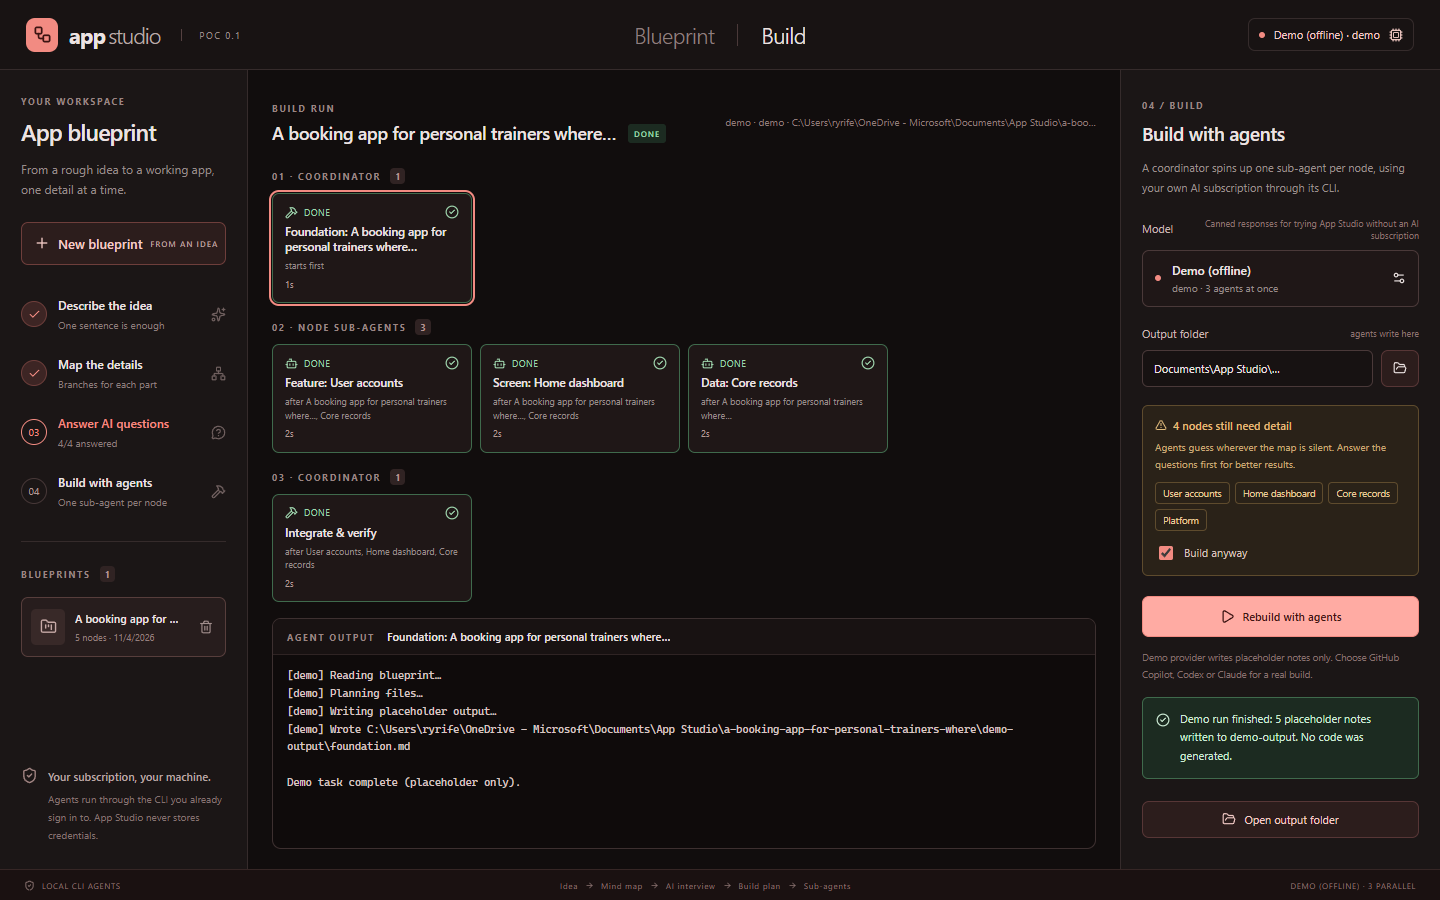
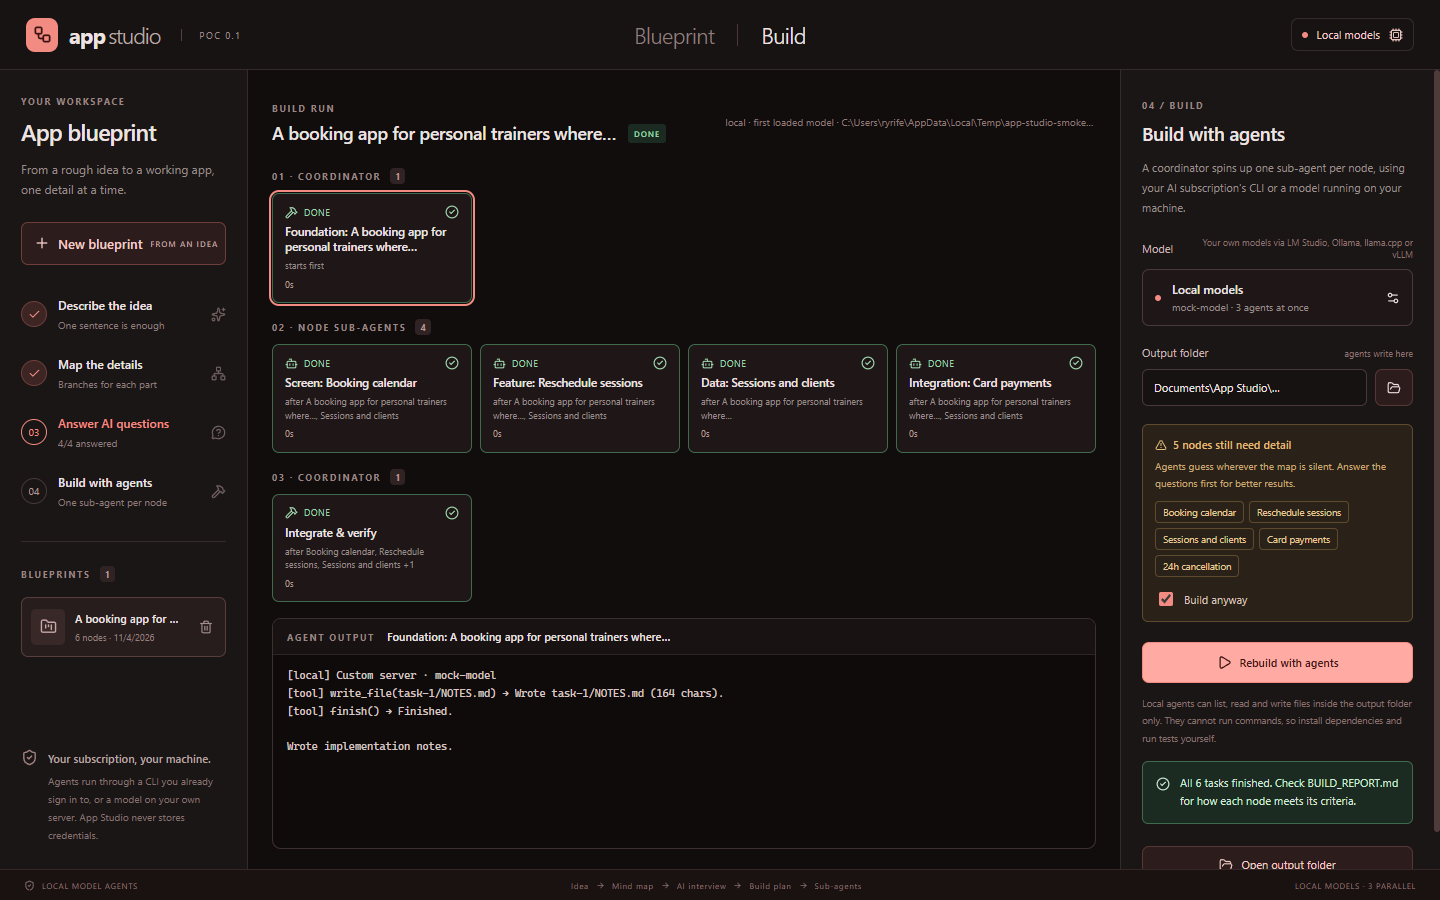
Finish local models provider, tests, smoke and docs
- Mock OpenAI-compatible server for tests and smoke; end-to-end local build, file-block fallback, safePath, parseFileBlocks, stripThinking and settings migration tests
- parseSettings keeps valid fields and fills gaps instead of resetting everything
- Smoke runs keep build output inside the temp data dir instead of Documents
- Provider-aware labels for local models; README; AGENTS.md and ux agent updated from Demo to Local models

diff --git a/tests/main.test.ts b/tests/main.test.ts
@@ -1,11 +1,13 @@
 import { test } from 'node:test'
 import assert from 'node:assert/strict'
-import { mkdtemp, readdir, rm } from 'node:fs/promises'
+import { mkdtemp, readdir, readFile, rm } from 'node:fs/promises'
 import { tmpdir } from 'node:os'
 import { join } from 'node:path'
 import { assertSafeArgs, runCommand } from '../src/main/process'
 import { providerDefs } from '../src/main/providers'
-import { Studio } from '../src/main/studio'
+import { localAgent, localAsk, parseFileBlocks, safePath, stripThinking } from '../src/main/local'
+import { parseSettings, Studio } from '../src/main/studio'
+import { startMockServer } from './fixtures/mock-openai.mjs'
 
 test('provider args only contain safe characters', () => {
   for (const def of Object.values(providerDefs)) {
@@ -13,6 +15,7 @@ test('provider args only contain safe characters', () => {
     assertSafeArgs(def.agentArgs('gpt-5.3-codex'))
     assert.ok(!def.askArgs('m').includes('--allow-all-tools'), `${def.id} ask mode must not grant tools`)
   }
+  assert.deepEqual(providerDefs.local.agentArgs('m'), [], 'local models are called over HTTP, not a CLI')
   assert.throws(() => assertSafeArgs(['model & calc']), /unsafe/)
   assert.throws(() => assertSafeArgs(['"x"']), /unsafe/)
 })
@@ -32,11 +35,14 @@ test('runCommand honours cancellation', async () => {
   await assert.rejects(pending, /Cancelled/)
 })
 
-test('demo provider runs a full interview and multi-agent build', async () => {
+test('local provider runs a full interview and multi-agent build', async () => {
   const dir = await mkdtemp(join(tmpdir(), 'app-studio-'))
+  const mock = await startMockServer({ thinking: true })
   try {
     const studio = new Studio(join(dir, 'data'), join(dir, 'docs'))
     await studio.load()
+    await studio.saveSettings({ ...studio.snapshot().settings, provider: 'local', localEndpoint: mock.url })
+    assert.match(await studio.testProvider(), /Local models/)
     const blueprint = await studio.createBlueprint('A booking app for personal trainers')
     const questions = await studio.interview(blueprint, blueprint.nodes[0].id)
     assert.ok(questions.questions.length >= 3)
@@ -50,9 +56,60 @@ test('demo provider runs a full interview and multi-agent build', async () => {
     assert.equal(finished.status, 'done', finished.tasks.map(task => `${task.id}:${task.status}:${task.error ?? ''}`).join('\n'))
     const buildable = branches.filter(item => item.kind !== 'rule' && item.kind !== 'constraint').length
     assert.equal(finished.tasks.length, buildable + 2)
-    const files = await readdir(join(run.outputDir, 'demo-output'))
-    assert.equal(files.length, finished.tasks.length)
+    const folders = (await readdir(run.outputDir)).filter(name => name.startsWith('task-'))
+    assert.equal(folders.length, finished.tasks.length)
+    assert.ok(mock.requests.every(body => body.model === 'mock-model'), 'uses the first non-embedding model')
     const saved = studio.snapshot().blueprints[0]
     assert.equal(saved.nodes.find(node => node.parentId === null)!.status, 'built')
+  } finally { await mock.close(); await rm(dir, { recursive: true, force: true }) }
+})
+
+test('local agent falls back to file blocks when the server rejects tools', async () => {
+  const dir = await mkdtemp(join(tmpdir(), 'app-studio-'))
+  const mock = await startMockServer({ rejectTools: true })
+  try {
+    const settings = parseSettings({ provider: 'local', localEndpoint: mock.url })
+    const lines: string[] = []
+    await localAgent(settings, 'Build it', dir, 20_000, undefined, chunk => lines.push(chunk))
+    assert.match(lines.join(''), /file-block mode/)
+    assert.equal(await readFile(join(dir, 'block-1', 'index.ts'), 'utf8'), 'export const ok = true\n')
+  } finally { await mock.close(); await rm(dir, { recursive: true, force: true }) }
+})
+
+test('local provider reports a missing server clearly', async () => {
+  const settings = parseSettings({ provider: 'local', localEndpoint: 'http://127.0.0.1:9/v1' })
+  await assert.rejects(localAsk(settings, 'hi', 5_000), /No OpenAI-compatible server answered at http:\/\/127\.0\.0\.1:9\/v1/)
+})
+
+test('safePath keeps agent writes inside the project', async () => {
+  const dir = await mkdtemp(join(tmpdir(), 'app-studio-'))
+  try {
+    for (const bad of ['../x', '..\\x', 'C:\\x', '/etc/passwd', '.git/config', 'src/../../x', '.app-studio/state.json', '']) {
+      await assert.rejects(safePath(dir, bad), Error, bad)
+    }
+    assert.equal((await safePath(dir, 'src/a.ts')).rel, 'src/a.ts')
+    assert.equal((await safePath(dir, 'src\\b.ts')).rel, 'src/b.ts')
+    assert.equal((await safePath(dir, '.')).rel, '.')
   } finally { await rm(dir, { recursive: true, force: true }) }
+})
+
+test('parseFileBlocks and stripThinking handle typical local model output', () => {
+  const files = parseFileBlocks('Intro\n### FILE: src/a.ts\n```ts\nconst a = 1\n```\n\n## FILE: `README.md`\n```\n# Hi\n```')
+  assert.deepEqual(files, [{ path: 'src/a.ts', content: 'const a = 1\n' }, { path: 'README.md', content: '# Hi\n' }])
+  assert.equal(stripThinking('<think>{ "x": 1 }</think>{"ok":true}'), '{"ok":true}')
+  assert.equal(stripThinking('stray reasoning</think> READY'), 'READY')
+})
+
+test('saved settings migrate from the retired demo provider', () => {
+  const migrated = parseSettings({ provider: 'demo', models: { copilot: ['auto'], codex: [], claude: [], demo: [] }, selectedModel: { copilot: 'auto', codex: '', claude: '', demo: '' }, maxParallelAgents: 2, binaryPaths: { copilot: '', codex: '', claude: '', demo: '' } })
+  assert.equal(migrated.provider, 'local')
+  assert.equal(migrated.maxParallelAgents, 2)
+  assert.deepEqual(migrated.models.local, [])
+  assert.equal(migrated.selectedModel.copilot, 'auto')
+  assert.equal(migrated.localEndpoint, '')
+  const kept = parseSettings({ provider: 'copilot', localEndpoint: 'file:///etc', maxParallelAgents: 99 })
+  assert.equal(kept.provider, 'copilot', 'one bad field does not reset the rest')
+  assert.equal(kept.localEndpoint, '')
+  assert.equal(kept.maxParallelAgents, 3)
+  assert.equal(parseSettings(null).provider, 'local')
 })

diff --git a/src/main/studio.ts b/src/main/studio.ts
@@ -17,12 +17,19 @@ export const defaultSettings: ProviderSettings = {
   localEndpoint: ''
 }
 
-/** Reads saved settings, migrating the retired "demo" provider to local models. */
+/** Reads saved settings field by field, keeping valid values, filling gaps from defaults and migrating the retired "demo" provider. */
 export function parseSettings(raw: unknown): ProviderSettings {
-  const value = { ...defaultSettings, ...(raw && typeof raw === 'object' ? raw : {}) } as Record<string, unknown>
-  if (value.provider === 'demo') value.provider = 'local'
-  const parsed = providerSettingsSchema.safeParse(value)
-  return parsed.success ? parsed.data : defaultSettings
+  const input: Record<string, unknown> = raw && typeof raw === 'object' ? { ...raw } : {}
+  if (input.provider === 'demo') input.provider = 'local'
+  const value: Record<string, unknown> = { ...defaultSettings }
+  for (const key of Object.keys(defaultSettings) as (keyof ProviderSettings)[]) {
+    const fallback = defaultSettings[key]
+    const incoming = input[key]
+    if (incoming === undefined) continue
+    const merged = typeof fallback === 'object' && incoming && typeof incoming === 'object' && !Array.isArray(incoming) ? { ...fallback, ...incoming } : incoming
+    if (providerSettingsSchema.safeParse({ ...value, [key]: merged }).success) value[key] = merged
+  }
+  return providerSettingsSchema.parse(value)
 }
 
 const askTimeout = 4 * 60_000

diff --git a/src/renderer/App.tsx b/src/renderer/App.tsx
@@ -209,7 +209,7 @@ export function App() {
           </div>)}
           {!snapshot?.blueprints.length && <div className="empty-assets"><Network size={26} /><p>No blueprints yet.</p><small>Describe an idea to grow your first map.</small></div>}
         </div>
-        <div className="local-note"><ShieldCheck size={17} /><div><strong>Your subscription, your machine.</strong><p>Agents run through the CLI you already sign in to. App Studio never stores credentials.</p></div></div>
+        <div className="local-note"><ShieldCheck size={17} /><div><strong>Your subscription, your machine.</strong><p>Agents run through a CLI you already sign in to, or a model on your own server. App Studio never stores credentials.</p></div></div>
       </aside>
 
       {tab === 'map' ? <>
@@ -260,7 +260,7 @@ export function App() {
     </main>
 
     <footer>
-      <span><ShieldCheck size={11} />LOCAL CLI AGENTS</span>
+      <span><ShieldCheck size={11} />{settings?.provider === 'local' ? 'LOCAL MODEL AGENTS' : 'LOCAL CLI AGENTS'}</span>
       <span>Idea <ArrowRight size={9} /> Mind map <ArrowRight size={9} /> AI interview <ArrowRight size={9} /> Build plan <ArrowRight size={9} /> Sub-agents</span>
       <span>{provider ? provider.label.toUpperCase() : 'NO MODEL'}{settings ? ` · ${settings.maxParallelAgents} PARALLEL` : ''}</span>
     </footer>

diff --git a/src/renderer/BuildView.tsx b/src/renderer/BuildView.tsx
@@ -32,7 +32,7 @@ export function BuildCenter({ blueprint, run }: { blueprint?: Blueprint; run?: B
   return <section className="center-panel">
     <div className="scene-heading">
       <div><span className="section-kicker">{run ? 'BUILD RUN' : '03 / BUILD PLAN'}</span><h2>{blueprint?.name ?? 'No blueprint open'}{run && <span className={`file-tag run-${run.status}`}>{run.status.toUpperCase()}</span>}</h2></div>
-      {run && <small className="run-meta">{run.provider} · {run.model || 'default model'} · {run.outputDir}</small>}
+      {run && <small className="run-meta">{run.provider} · {run.model || (run.provider === 'local' ? 'first loaded model' : 'CLI default model')} · {run.outputDir}</small>}
     </div>
     {!blueprint ? <div className="viewport"><div className="empty-viewport"><h2>Nothing to build yet.</h2><p>Create a blueprint first.</p></div></div> : <>
       {!run && <p className="plan-note">This is the plan agents will follow. The coordinator lays the foundation, data agents go first, features and screens fan out in parallel, then the coordinator integrates and verifies. Rules and constraints are passed to agents as context.</p>}

diff --git a/src/main/index.ts b/src/main/index.ts
@@ -21,7 +21,9 @@ app.on('second-instance', () => {
 const blueprintId = z.string().regex(/^[a-zA-Z0-9_-]{1,64}$/)
 
 if (ownsWorkspace) app.whenReady().then(async () => {
-  studio = new Studio(app.getPath('userData'), app.getPath('documents'))
+  const dataDir = app.getPath('userData')
+  // An overridden data dir (tests, smoke runs) also keeps default build output out of the real Documents folder.
+  studio = new Studio(dataDir, process.env.APP_STUDIO_DATA_DIR ? join(dataDir, 'Documents') : app.getPath('documents'))
   await studio.load()
   window = new BrowserWindow({
     title: 'App Studio', width: 1440, height: 940, minWidth: 1100, minHeight: 740,

diff --git a/AGENTS.md b/AGENTS.md
@@ -4,15 +4,15 @@
 
 App Studio is a mind-map driven AI app builder. A user describes an app idea, shapes it into a mind map where every node is one detail of the application (a feature, screen, data model, integration, rule or constraint), answers AI-generated questions for each node, and then lets a coordinator agent run one sub-agent per buildable node to generate the app.
 
-The current product is a local Electron proof of concept. AI work runs through the CLI of a subscription the user already has — GitHub Copilot CLI, OpenAI Codex CLI or Claude Code — with the user choosing the model ID. A built-in Demo provider returns canned responses so the full flow can be exercised offline. Treat broader capabilities (verification loops, re-planning, deployment, merge conflict resolution between agents) as goals, not shipped features.
+The current product is a local Electron proof of concept. AI work runs through the CLI of a subscription the user already has — GitHub Copilot CLI, OpenAI Codex CLI or Claude Code — with the user choosing the model ID — or through **Local models**: any OpenAI-compatible server on the user's machine or network (LM Studio, Ollama, llama.cpp, or vLLM on Linux/WSL). Treat broader capabilities (verification loops, re-planning, deployment, merge conflict resolution between agents) as goals, not shipped features.
 
 ## Repository layout
 
-- `src/main`: Electron lifecycle, IPC handlers, blueprint/settings persistence (`studio.ts`), provider adapters (`providers.ts`) and safe CLI process spawning (`process.ts`).
+- `src/main`: Electron lifecycle, IPC handlers, blueprint/settings persistence (`studio.ts`), provider adapters (`providers.ts`), the local-model client and sandboxed file-tool agent (`local.ts`) and safe CLI process spawning (`process.ts`).
 - `src/preload`: the narrow, isolated `window.studio` bridge.
 - `src/renderer`: React UI — app shell (`App.tsx`), React Flow mind map (`MindMap.tsx`), node inspector, build view and settings modal. All styling lives in `style.css`.
 - `src/shared`: zod schemas and types, build planning and completeness (`plan.ts`), prompts and model-response parsing (`prompts.ts`), and tree layout.
-- `tests`: Node test-runner tests for planning, prompts, process safety and an end-to-end Demo-provider build.
+- `tests`: Node test-runner tests for planning, prompts, process safety, local-agent path sandboxing and an end-to-end Local-models build against `tests/fixtures/mock-openai.mjs`.
 - `scripts/smoke.mjs`: Playwright-driven desktop smoke test that also refreshes `docs/screenshots`.
 
 ## Development
@@ -32,8 +32,9 @@ If Electron's postinstall was blocked by npm script policy, run `node node_modul
 - Never collect, store or proxy API keys or subscription credentials. Authentication belongs to each CLI's own login flow.
 - Preserve Electron context isolation, sandboxing, deny-by-default navigation/permissions, IPC sender validation and zod validation at every IPC and filesystem boundary.
 - Ask-mode calls (interview, branch suggestions, acceptance criteria) must not grant tools or write access. Only build agents get write access, and only inside the chosen output folder.
+- Local-model agents only get `list_files`, `read_file`, `write_file` and `finish`. Every model-supplied path goes through `safePath` (relative only, no traversal, no `.git`/`.app-studio`, no symlink escapes). Do not add shell or network tools without an explicit design review.
 - The blueprint is the source of truth. Build planning must stay deterministic and acyclic: foundation first, one agent per buildable node, integration last. `rule` and `constraint` nodes are context for other agents, not agents themselves.
-- Be honest about status. Never show a node or build as built when an agent failed, was skipped or was cancelled, and never present Demo output as generated code.
+- Be honest about status. Never show a node or build as built when an agent failed, was skipped or was cancelled, or when an agent wrote no files.
 - Keep blueprints backward compatible with persisted JSON or add an explicit migration.
 - Keep generated apps, user data, logs and build output out of Git.
 
@@ -84,7 +85,7 @@ App Studio shares CharacterStudio's layout language and component vocabulary, re
 
 1. **AI asks before it builds.** Every buildable node should be interviewed and have acceptance criteria before the build. Gaps are surfaced (Needs detail strip, build warning) but the user can explicitly choose **Build anyway**.
 2. **One obvious next step.** Each panel has at most one primary action. The left step list always reflects real progress through Idea → Mind map → Questions → Build.
-3. **Honest, visible status.** Show what the agents are doing, live logs, failures with reasons, and skipped/cancelled tasks. Demo results are labelled as placeholders.
+3. **Honest, visible status.** Show what the agents are doing, live logs, failures with reasons, and skipped/cancelled tasks. Local agents cannot run commands, and the build view says so.
 4. **The user stays in control.** Suggestions arrive in a tray the user accepts or edits; nothing is added to the map silently. Editing locks while a build runs, and builds can be stopped.
 5. **Your subscription, your machine.** Make it clear which provider and model will be used and that credentials stay with the CLI. Explain permission implications before agents run.
 6. **Empty states teach.** Empty views explain what will appear and how to get there, in one or two sentences.
@@ -101,7 +102,7 @@ npm run build
 npm run smoke
 ```
 
-`npm run smoke` launches the built app hidden with the Demo provider, drives idea → branches → interview → build, and rewrites the screenshots in `docs/screenshots`. Real provider checks need the relevant CLI installed and signed in; do not fake or assume a provider result.
+`npm run smoke` launches the built app hidden against the mock OpenAI-compatible server, drives idea → branches → interview → build, and rewrites the screenshots in `docs/screenshots`. Real provider checks need the relevant CLI installed and signed in; do not fake or assume a provider result.
 
 ## README maintenance
 

diff --git a/README.md b/README.md
@@ -1,0 +1,84 @@
+# App Studio
+
+App Studio is an AI-powered, no-code app builder that works from a **mind map**. You describe an idea, break it into nodes (each node is one detail of the app: a feature, screen, data model, integration, rule or constraint), and answer the questions the AI asks about each node. When the map is detailed enough, a coordinator agent runs **one sub-agent per node** to build the app.
+
+> **Status:** proof of concept (v0.1). The full idea → map → interview → multi-agent build loop works end to end. Verification loops, re-planning, deployment and merge-conflict handling between agents are goals, not shipped features.
+
+![Mind map with AI interview](docs/screenshots/blueprint.png)
+
+## How it works
+
+1. **Describe the idea.** One sentence is enough; it becomes the root `App` node.
+2. **Map the details.** Add child nodes yourself, or click **Suggest branches** and pick from the AI's suggestions. Nothing is added to the map without your OK.
+3. **Answer AI questions.** For each node, **Ask AI questions** generates 3–5 targeted questions (with why each matters). Your answers, plus generated acceptance criteria, become that node's spec. The **Needs detail** strip shows which nodes still have gaps.
+4. **Build with agents.** The build plan is deterministic: a *foundation* agent scaffolds the project and writes `APP_STUDIO.md`, then one sub-agent per buildable node runs in parallel (respecting dependencies), and an *integrate & verify* agent wires everything together and writes `BUILD_REPORT.md`. `rule` and `constraint` nodes are passed as context to the agents they apply to rather than run as agents.
+
+![Multi-agent build view](docs/screenshots/build.png)
+
+Live logs, failures, skipped and cancelled tasks are shown honestly. A node is marked **Built** only when its agent succeeded.
+
+## Model providers
+
+App Studio never stores API keys. Open **Model & agents** (the chip at the top right) to choose a provider and a model you supply:
+
+| Provider | What it uses | Setup |
+| --- | --- | --- |
+| **GitHub Copilot** | Your Copilot subscription via the [Copilot CLI](https://github.com/github/copilot-cli) | Install the CLI and sign in (`copilot`, then `/login`). Model IDs such as `auto`, `claude-sonnet-5.5` or `gpt-6.1-sol` are passed to `--model`. |
+| **OpenAI Codex** | ChatGPT Plus/Pro/Team via the Codex CLI | `npm i -g @openai/codex`, then `codex login`. |
+| **Claude** | Claude Pro/Max via Claude Code | Install Claude Code, then run `claude` and sign in. |
+| **Local models** | Any OpenAI-compatible `/v1` server on your machine or network | See below. |
+
+![Model settings](docs/screenshots/settings.png)
+
+Prompts are sent to CLIs on stdin only, never as command-line arguments. Interview and suggestion calls run without tools; only build agents get write access, and only inside the chosen output folder.
+
+### Local models
+
+**Local models** talks to any server that implements the OpenAI chat-completions API. With **Auto-detect** it probes these on `127.0.0.1`:
+
+| Server | Default URL | Start it with |
+| --- | --- | --- |
+| [LM Studio](https://lmstudio.ai) | `http://127.0.0.1:1234/v1` | `lms server start` (models load on first request) |
+| [Ollama](https://ollama.com) | `http://127.0.0.1:11434/v1` | `ollama serve`, then `ollama pull qwen3:14b` |
+| [vLLM](https://docs.vllm.ai) | `http://127.0.0.1:8000/v1` | `vllm serve <model>` on Linux or WSL2 (vLLM does not run natively on Windows) |
+| [llama.cpp](https://github.com/ggml-org/llama.cpp) | `http://127.0.0.1:8080/v1` | `llama-server -m model.gguf --jinja` |
+
+You can also enter a custom URL (for example a vLLM box on your network). Blueprint text is sent to whichever server you choose. ComfyUI is not supported here because it serves image/diffusion workflows, not chat models.
+
+Pick a served model in **Model**, or leave **First loaded model**. Models with tool calling (Qwen3, Llama 3.1+, Gemma 4, gpt-oss) build best. Local build agents get a sandboxed toolset — `list_files`, `read_file`, `write_file`, `finish` — confined to the output folder. If a server rejects tool calling, agents fall back to replying with `### FILE: path` blocks. **Local agents cannot run commands**, so install dependencies and run the generated tests yourself.
+
+## Getting started
+
+Requires Node.js 22+ on Windows, macOS or Linux.
+
+```powershell
+npm install
+npm run dev
+```
+
+If npm's script policy blocked Electron's postinstall (you'll see "Electron failed to install correctly"), run `node node_modules\electron\install.js` once.
+
+Build output goes to `Documents\App Studio\<blueprint name>` by default; choose another folder from the **Build** tab.
+
+## Validation
+
+```powershell
+npm test          # planning, prompts, process safety, local-agent sandboxing, end-to-end build against a mock server
+npm run typecheck
+npm run build
+npm run smoke     # launches the built app hidden, drives the full flow, refreshes docs/screenshots
+```
+
+Tests and the smoke run use `tests/fixtures/mock-openai.mjs`, a small OpenAI-compatible server, so they need no model or subscription.
+
+## Limitations
+
+- Proof of concept: no verification loop or re-planning after a failed agent; failed tasks block their dependants.
+- Parallel sub-agents share one output folder and are told to stay in their node's folder; conflicting edits to shared files are possible.
+- Local agents have no shell, so they cannot install packages or run tests.
+- The Copilot CLI flow has been verified with a real subscription. The Codex and Claude Code flags follow their documentation but have not yet been verified on a real install.
+- Local servers usually process one request at a time, so extra parallel agents queue on your GPU.
+
+## Project guidance
+
+See [AGENTS.md](AGENTS.md) for architecture, the red design system and UX principles. The `design` and `ux` custom agents in [.github/agents](.github/agents) apply them when reviewing UI changes.

diff --git a/.github/agents/ux.agent.md b/.github/agents/ux.agent.md
@@ -18,7 +18,7 @@ Read the **UX principles** and **Design system** sections of `AGENTS.md` first. 
 
 - Every view has designed empty, loading, success, partial and failure states. Empty states explain in one or two sentences what will appear and how to get there.
 - Errors say what happened and what to do next (for example "Run `copilot login`" or "Add a model ID your plan supports"). Never show raw stack traces as the only message.
-- Be honest: Demo output is labelled as placeholders; failed, skipped and cancelled agents are never shown as built.
+- Be honest: local agents' limits (no shell, no dependency install) are stated; failed, skipped and cancelled agents are never shown as built.
 - Make provider, model and permission implications visible before a build starts. Never ask for or display API keys.
 - Use sentence case, short labels that match the UI exactly, and the user's vocabulary (node, map, blueprint, agent) consistently.
 
